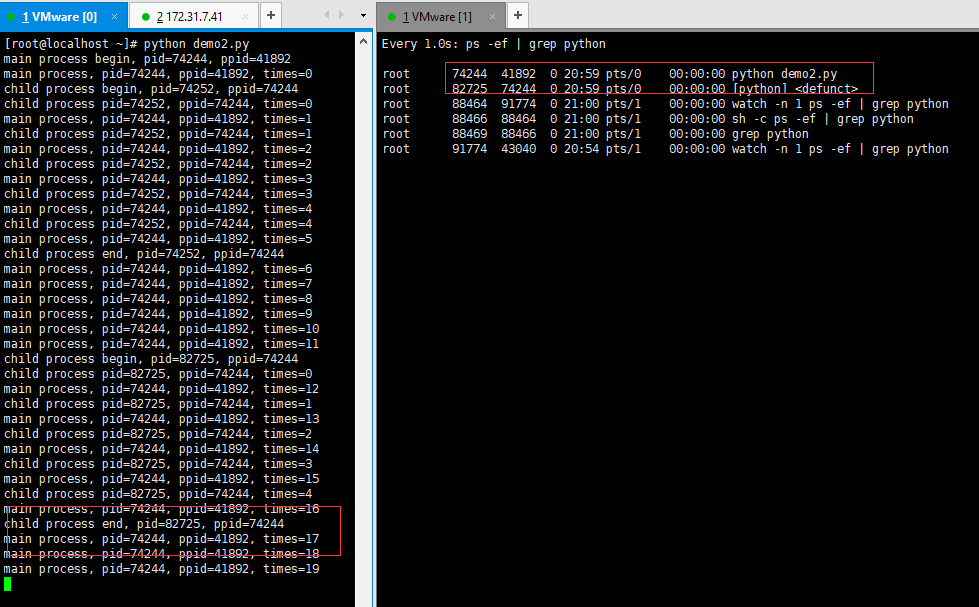
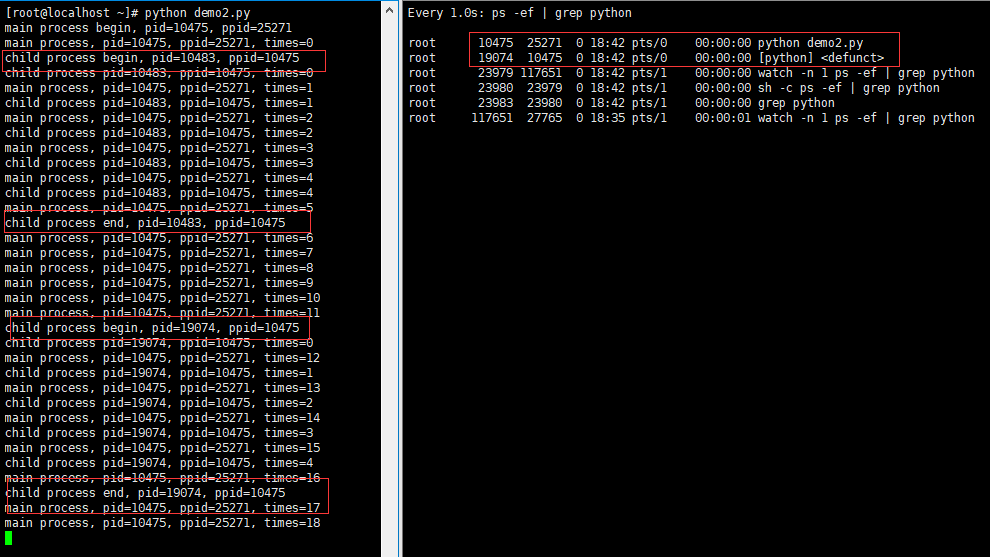
Site updated: 2018-06-08 18:46:48

Changed region(s): [[0.0, 0.0, 1.0, 1.0]]

diff --git a/2018/06/07/基于Python初探Linux下的僵尸进程和孤儿进程-三/index.html b/2018/06/07/基于Python初探Linux下的僵尸进程和孤儿进程-三/index.html
@@ -108,8 +108,8 @@
 </ul>
 <p>　　此应用场景的代码是<strong>基于未主动剔除僵尸进程的前提下</strong>实现的，<font color="red">重点讨论僵尸进程的自动消除的原因</font>；样例代码如下所示(若要探究如何消除僵尸进程，可详见<a href="https://yhyr.github.io/2018/06/06/%E5%9F%BA%E4%BA%8EPython%E5%88%9D%E6%8E%A2Linux%E4%B8%8B%E7%9A%84%E5%83%B5%E5%B0%B8%E8%BF%9B%E7%A8%8B%E5%92%8C%E5%AD%A4%E5%84%BF%E8%BF%9B%E7%A8%8B-%E4%BA%8C/" target="_blank" rel="noopener">传送门</a>)：</p>
 <figure class="highlight python"><table><tr><td class="gutter"><pre><span class="line">1</span><br><span class="line">2</span><br><span class="line">3</span><br><span class="line">4</span><br><span class="line">5</span><br><span class="line">6</span><br><span class="line">7</span><br><span class="line">8</span><br><span class="line">9</span><br><span class="line">10</span><br><span class="line">11</span><br><span class="line">12</span><br><span class="line">13</span><br><span class="line">14</span><br><span class="line">15</span><br><span class="line">16</span><br><span class="line">17</span><br><span class="line">18</span><br><span class="line">19</span><br><span class="line">20</span><br><span class="line">21</span><br><span class="line">22</span><br><span class="line">23</span><br><span class="line">24</span><br><span class="line">25</span><br><span class="line">26</span><br><span class="line">27</span><br><span class="line">28</span><br><span class="line">29</span><br><span class="line">30</span><br><span class="line">31</span><br><span class="line">32</span><br><span class="line">33</span><br><span class="line">34</span><br><span class="line">35</span><br><span class="line">36</span><br><span class="line">37</span><br><span class="line">38</span><br><span class="line">39</span><br><span class="line">40</span><br><span class="line">41</span><br><span class="line">42</span><br><span class="line">43</span><br><span class="line">44</span><br><span class="line">45</span><br><span class="line">46</span><br><span class="line">47</span><br><span class="line">48</span><br><span class="line">49</span><br><span class="line">50</span><br><span class="line">51</span><br><span class="line">52</span><br><span class="line">53</span><br><span class="line">54</span><br></pre></td><td class="code"><pre><span class="line"><span class="comment"># -*- coding: utf-8 -*-</span></span><br><span class="line"><span class="keyword">import</span> multiprocessing</span><br><span class="line"><span class="keyword">import</span> os</span><br><span class="line"><span class="keyword">import</span> time</span><br><span class="line"><span class="keyword">from</span> kafka <span class="keyword">import</span> KafkaConsumer</span><br><span class="line"></span><br><span class="line"></span><br><span class="line"><span class="class"><span class="keyword">class</span> <span class="title">ConsumerUtil</span>:</span></span><br><span class="line">    <span class="function"><span class="keyword">def</span> <span class="title">__init__</span><span class="params">(self, broker_list, topic_name, group_name=<span class="string">'consumer_group_1'</span>, api_version=<span class="string">'0.10'</span>, auto_offset_reset=<span class="string">'latest'</span>)</span>:</span></span><br><span class="line">        self.broker_list = broker_list</span><br><span class="line">        self.topic_name = topic_name</span><br><span class="line">        self.group_name = group_name</span><br><span class="line">        self.api_version = api_version</span><br><span class="line">        self.auto_offset_reset = auto_offset_reset</span><br><span class="line"></span><br><span class="line">        self.consumer = KafkaConsumer(self.topic_name, group_id=self.group_name, bootstrap_servers=self.broker_list, enable_auto_commit=<span class="keyword">True</span>, api_version=self.api_version, auto_offset_reset=self.auto_offset_reset)</span><br><span class="line"></span><br><span class="line">    <span class="function"><span class="keyword">def</span> <span class="title">consumer_fun</span><span class="params">(self, message_consumer)</span>:</span></span><br><span class="line">        <span class="keyword">for</span> msg <span class="keyword">in</span> self.consumer:</span><br><span class="line">            message_consumer(msg.value)</span><br><span class="line"></span><br><span class="line"></span><br><span class="line"><span class="class"><span class="keyword">class</span> <span class="title">MainProcess</span>:</span></span><br><span class="line">    <span class="function"><span class="keyword">def</span> <span class="title">__init__</span><span class="params">(self, broker_list, topic_name)</span>:</span></span><br><span class="line">        self.broker_list = broker_list</span><br><span class="line">        self.topic_name = topic_name</span><br><span class="line"></span><br><span class="line">    <span class="function"><span class="keyword">def</span> <span class="title">consume_task</span><span class="params">(self, msg)</span>:</span></span><br><span class="line">        p = ChildProcess(msg)</span><br><span class="line">        print(<span class="string">'main process fork a new child process'</span>)</span><br><span class="line">        p.start()</span><br><span class="line"></span><br><span class="line">    <span class="function"><span class="keyword">def</span> <span class="title">excutor</span><span class="params">(self)</span>:</span></span><br><span class="line">        print(<span class="string">'main process pid=&#123;0&#125;, ppid=&#123;1&#125; Begin'</span>.format(os.getpid(), os.getppid()))</span><br><span class="line">        ConsumerUtil(self.broker_list, self.topic_name).consumer_fun(self.consume_task)</span><br><span class="line">        print(<span class="string">'main process pid=&#123;0&#125;, ppid=&#123;1&#125; End'</span>.format(os.getpid(), os.getppid()))</span><br><span class="line"></span><br><span class="line"></span><br><span class="line"><span class="class"><span class="keyword">class</span> <span class="title">ChildProcess</span><span class="params">(multiprocessing.Process)</span>:</span></span><br><span class="line">    <span class="function"><span class="keyword">def</span> <span class="title">__init__</span><span class="params">(self, msg)</span>:</span></span><br><span class="line">        multiprocessing.Process.__init__(self)</span><br><span class="line">        self.msg = msg</span><br><span class="line"></span><br><span class="line">    <span class="function"><span class="keyword">def</span> <span class="title">run</span><span class="params">(self)</span>:</span></span><br><span class="line">        print(<span class="string">'child process pid=&#123;0&#125;, ppid=&#123;1&#125; Begin consumer msg, '</span>.format(os.getpid(), os.getppid()))</span><br><span class="line">        print(<span class="string">'child process pid=&#123;0&#125;, ppid=&#123;1&#125; Is being consumer msg=&#123;2&#125;'</span>.format(os.getpid(), os.getppid(), self.msg))</span><br><span class="line">        time.sleep(<span class="number">5</span>)</span><br><span class="line">        print(<span class="string">'child process pid=&#123;0&#125;, ppid=&#123;1&#125; End consumer msg'</span>.format(os.getpid(), os.getppid()))</span><br><span class="line"></span><br><span class="line"></span><br><span class="line"></span><br><span class="line"><span class="keyword">if</span> __name__ == <span class="string">'__main__'</span>:</span><br><span class="line">    action = MainProcess(<span class="string">'127.0.0.1:9092'</span>, <span class="string">'demo_topic'</span>)</span><br><span class="line">    action.excutor()</span><br></pre></td></tr></table></figure>
-<h1 id="场景抽象"><a href="#场景抽象" class="headerlink" title="场景抽象"></a>场景抽象</h1><p>　　为了方便举例，将上述实际业务场景抽象成一个简单的demo：当主进程开始启动时，会新建一个子进程，此时子父进程是并行执行；当主进程执行了15秒后会再启动一个子进程(此处模拟再次消费kafka消息)，在新建子进程的时候上一个子进程已经结束；样例代码如下：</p>
-<figure class="highlight python"><table><tr><td class="gutter"><pre><span class="line">1</span><br><span class="line">2</span><br><span class="line">3</span><br><span class="line">4</span><br><span class="line">5</span><br><span class="line">6</span><br><span class="line">7</span><br><span class="line">8</span><br><span class="line">9</span><br><span class="line">10</span><br><span class="line">11</span><br><span class="line">12</span><br><span class="line">13</span><br><span class="line">14</span><br><span class="line">15</span><br><span class="line">16</span><br><span class="line">17</span><br><span class="line">18</span><br><span class="line">19</span><br><span class="line">20</span><br><span class="line">21</span><br><span class="line">22</span><br><span class="line">23</span><br><span class="line">24</span><br><span class="line">25</span><br><span class="line">26</span><br><span class="line">27</span><br><span class="line">28</span><br><span class="line">29</span><br><span class="line">30</span><br><span class="line">31</span><br><span class="line">32</span><br><span class="line">33</span><br><span class="line">34</span><br><span class="line">35</span><br><span class="line">36</span><br><span class="line">37</span><br><span class="line">38</span><br><span class="line">39</span><br><span class="line">40</span><br><span class="line">41</span><br><span class="line">42</span><br><span class="line">43</span><br><span class="line">44</span><br><span class="line">45</span><br></pre></td><td class="code"><pre><span class="line"><span class="comment"># -*- coding: utf-8 -*-</span></span><br><span class="line"><span class="keyword">import</span> multiprocessing</span><br><span class="line"><span class="keyword">import</span> os</span><br><span class="line"><span class="keyword">import</span> time</span><br><span class="line"><span class="keyword">import</span> signal</span><br><span class="line"></span><br><span class="line"></span><br><span class="line"><span class="class"><span class="keyword">class</span> <span class="title">MainProcess</span>:</span></span><br><span class="line">    <span class="function"><span class="keyword">def</span> <span class="title">__init__</span><span class="params">(self, main_process_time, child_process_time)</span>:</span></span><br><span class="line">        self.main_process_time = main_process_time</span><br><span class="line">        self.child_process_time = child_process_time</span><br><span class="line"></span><br><span class="line">    <span class="function"><span class="keyword">def</span> <span class="title">excutor</span><span class="params">(self)</span>:</span></span><br><span class="line">        print(<span class="string">'main process begin, pid=&#123;0&#125;, ppid=&#123;1&#125;'</span>.format(os.getpid(), os.getppid()))</span><br><span class="line">        p = ChildProcess(self.child_process_time)</span><br><span class="line">        p.start()</span><br><span class="line"></span><br><span class="line">        <span class="keyword">for</span> i <span class="keyword">in</span> range(self.main_process_time):</span><br><span class="line">            print(<span class="string">'main process, pid=&#123;0&#125;, ppid=&#123;1&#125;, times=&#123;2&#125;'</span>.format(os.getpid(), os.getppid(), i))</span><br><span class="line">            time.sleep(<span class="number">1</span>)</span><br><span class="line">            <span class="keyword">if</span> i == <span class="number">15</span>:</span><br><span class="line">                p = ChildProcess(self.child_process_time)</span><br><span class="line">                p.start()</span><br><span class="line"></span><br><span class="line">        print(<span class="string">'main process end, pid=&#123;0&#125;, ppid=&#123;1&#125;'</span>.format(os.getpid(), os.getppid()))</span><br><span class="line"></span><br><span class="line"></span><br><span class="line"><span class="class"><span class="keyword">class</span> <span class="title">ChildProcess</span><span class="params">(multiprocessing.Process)</span>:</span></span><br><span class="line">    <span class="function"><span class="keyword">def</span> <span class="title">__init__</span><span class="params">(self, process_time)</span>:</span></span><br><span class="line">        multiprocessing.Process.__init__(self)</span><br><span class="line">        self.process_time = process_time</span><br><span class="line"></span><br><span class="line">    <span class="function"><span class="keyword">def</span> <span class="title">run</span><span class="params">(self)</span>:</span></span><br><span class="line">        print(<span class="string">'child process begin, pid=&#123;0&#125;, ppid=&#123;1&#125;'</span>.format(os.getpid(), os.getppid()))</span><br><span class="line">        <span class="keyword">for</span> i <span class="keyword">in</span> range(self.process_time):</span><br><span class="line">            print(<span class="string">'child process pid=&#123;0&#125;, ppid=&#123;1&#125;, times=&#123;2&#125;'</span>.format(os.getpid(), os.getppid(), i))</span><br><span class="line">            time.sleep(<span class="number">1</span>)</span><br><span class="line">        print(<span class="string">'child process end, pid=&#123;0&#125;, ppid=&#123;1&#125;'</span>.format(os.getpid(), os.getppid()))</span><br><span class="line"></span><br><span class="line"></span><br><span class="line"><span class="keyword">if</span> __name__ == <span class="string">'__main__'</span>:</span><br><span class="line">    main_process_time = <span class="number">30</span></span><br><span class="line">    child_process_time = <span class="number">5</span></span><br><span class="line">    action = MainProcess(main_process_time, child_process_time)</span><br><span class="line">    action.excutor()</span><br></pre></td></tr></table></figure>
+<h1 id="场景抽象"><a href="#场景抽象" class="headerlink" title="场景抽象"></a>场景抽象</h1><p>　　为了方便举例，将上述实际业务场景抽象成一个简单的demo：当主进程开始启动时，会新建一个子进程，此时子父进程是并行执行；当主进程执行了10秒后会再启动一个子进程(此处模拟再次消费kafka消息)，在新建子进程的时候上一个子进程已经结束；样例代码如下：</p>
+<figure class="highlight python"><table><tr><td class="gutter"><pre><span class="line">1</span><br><span class="line">2</span><br><span class="line">3</span><br><span class="line">4</span><br><span class="line">5</span><br><span class="line">6</span><br><span class="line">7</span><br><span class="line">8</span><br><span class="line">9</span><br><span class="line">10</span><br><span class="line">11</span><br><span class="line">12</span><br><span class="line">13</span><br><span class="line">14</span><br><span class="line">15</span><br><span class="line">16</span><br><span class="line">17</span><br><span class="line">18</span><br><span class="line">19</span><br><span class="line">20</span><br><span class="line">21</span><br><span class="line">22</span><br><span class="line">23</span><br><span class="line">24</span><br><span class="line">25</span><br><span class="line">26</span><br><span class="line">27</span><br><span class="line">28</span><br><span class="line">29</span><br><span class="line">30</span><br><span class="line">31</span><br><span class="line">32</span><br><span class="line">33</span><br><span class="line">34</span><br><span class="line">35</span><br><span class="line">36</span><br><span class="line">37</span><br><span class="line">38</span><br><span class="line">39</span><br><span class="line">40</span><br><span class="line">41</span><br><span class="line">42</span><br><span class="line">43</span><br><span class="line">44</span><br><span class="line">45</span><br></pre></td><td class="code"><pre><span class="line"><span class="comment"># -*- coding: utf-8 -*-</span></span><br><span class="line"><span class="keyword">import</span> multiprocessing</span><br><span class="line"><span class="keyword">import</span> os</span><br><span class="line"><span class="keyword">import</span> time</span><br><span class="line"><span class="keyword">import</span> signal</span><br><span class="line"></span><br><span class="line"></span><br><span class="line"><span class="class"><span class="keyword">class</span> <span class="title">MainProcess</span>:</span></span><br><span class="line">    <span class="function"><span class="keyword">def</span> <span class="title">__init__</span><span class="params">(self, main_process_time, child_process_time)</span>:</span></span><br><span class="line">        self.main_process_time = main_process_time</span><br><span class="line">        self.child_process_time = child_process_time</span><br><span class="line"></span><br><span class="line">    <span class="function"><span class="keyword">def</span> <span class="title">excutor</span><span class="params">(self)</span>:</span></span><br><span class="line">        print(<span class="string">'main process begin, pid=&#123;0&#125;, ppid=&#123;1&#125;'</span>.format(os.getpid(), os.getppid()))</span><br><span class="line">        p = ChildProcess(self.child_process_time)</span><br><span class="line">        p.start()</span><br><span class="line"></span><br><span class="line">        <span class="keyword">for</span> i <span class="keyword">in</span> range(self.main_process_time):</span><br><span class="line">            print(<span class="string">'main process, pid=&#123;0&#125;, ppid=&#123;1&#125;, times=&#123;2&#125;'</span>.format(os.getpid(), os.getppid(), i))</span><br><span class="line">            time.sleep(<span class="number">1</span>)</span><br><span class="line">            <span class="keyword">if</span> i == <span class="number">10</span>:</span><br><span class="line">                p = ChildProcess(self.child_process_time)</span><br><span class="line">                p.start()</span><br><span class="line"></span><br><span class="line">        print(<span class="string">'main process end, pid=&#123;0&#125;, ppid=&#123;1&#125;'</span>.format(os.getpid(), os.getppid()))</span><br><span class="line"></span><br><span class="line"></span><br><span class="line"><span class="class"><span class="keyword">class</span> <span class="title">ChildProcess</span><span class="params">(multiprocessing.Process)</span>:</span></span><br><span class="line">    <span class="function"><span class="keyword">def</span> <span class="title">__init__</span><span class="params">(self, process_time)</span>:</span></span><br><span class="line">        multiprocessing.Process.__init__(self)</span><br><span class="line">        self.process_time = process_time</span><br><span class="line"></span><br><span class="line">    <span class="function"><span class="keyword">def</span> <span class="title">run</span><span class="params">(self)</span>:</span></span><br><span class="line">        print(<span class="string">'child process begin, pid=&#123;0&#125;, ppid=&#123;1&#125;'</span>.format(os.getpid(), os.getppid()))</span><br><span class="line">        <span class="keyword">for</span> i <span class="keyword">in</span> range(self.process_time):</span><br><span class="line">            print(<span class="string">'child process pid=&#123;0&#125;, ppid=&#123;1&#125;, times=&#123;2&#125;'</span>.format(os.getpid(), os.getppid(), i))</span><br><span class="line">            time.sleep(<span class="number">1</span>)</span><br><span class="line">        print(<span class="string">'child process end, pid=&#123;0&#125;, ppid=&#123;1&#125;'</span>.format(os.getpid(), os.getppid()))</span><br><span class="line"></span><br><span class="line"></span><br><span class="line"><span class="keyword">if</span> __name__ == <span class="string">'__main__'</span>:</span><br><span class="line">    main_process_time = <span class="number">30</span></span><br><span class="line">    child_process_time = <span class="number">5</span></span><br><span class="line">    action = MainProcess(main_process_time, child_process_time)</span><br><span class="line">    action.excutor()</span><br></pre></td></tr></table></figure>
 <p>代码的执行逻辑如下所述：</p>
 <p>主进程启动后初始化一个子进程(主进程的执行周期远大于子进程)，当子进程尚未结束时，控制台的输出结果和进程状态如下图所示(<font color="red">注意子进程的进程状态</font>)：</p>
 <p><img src="./第一次新建子进程且未执行完成.png" alt="第一次新建子进程且未执行完成"></p>
